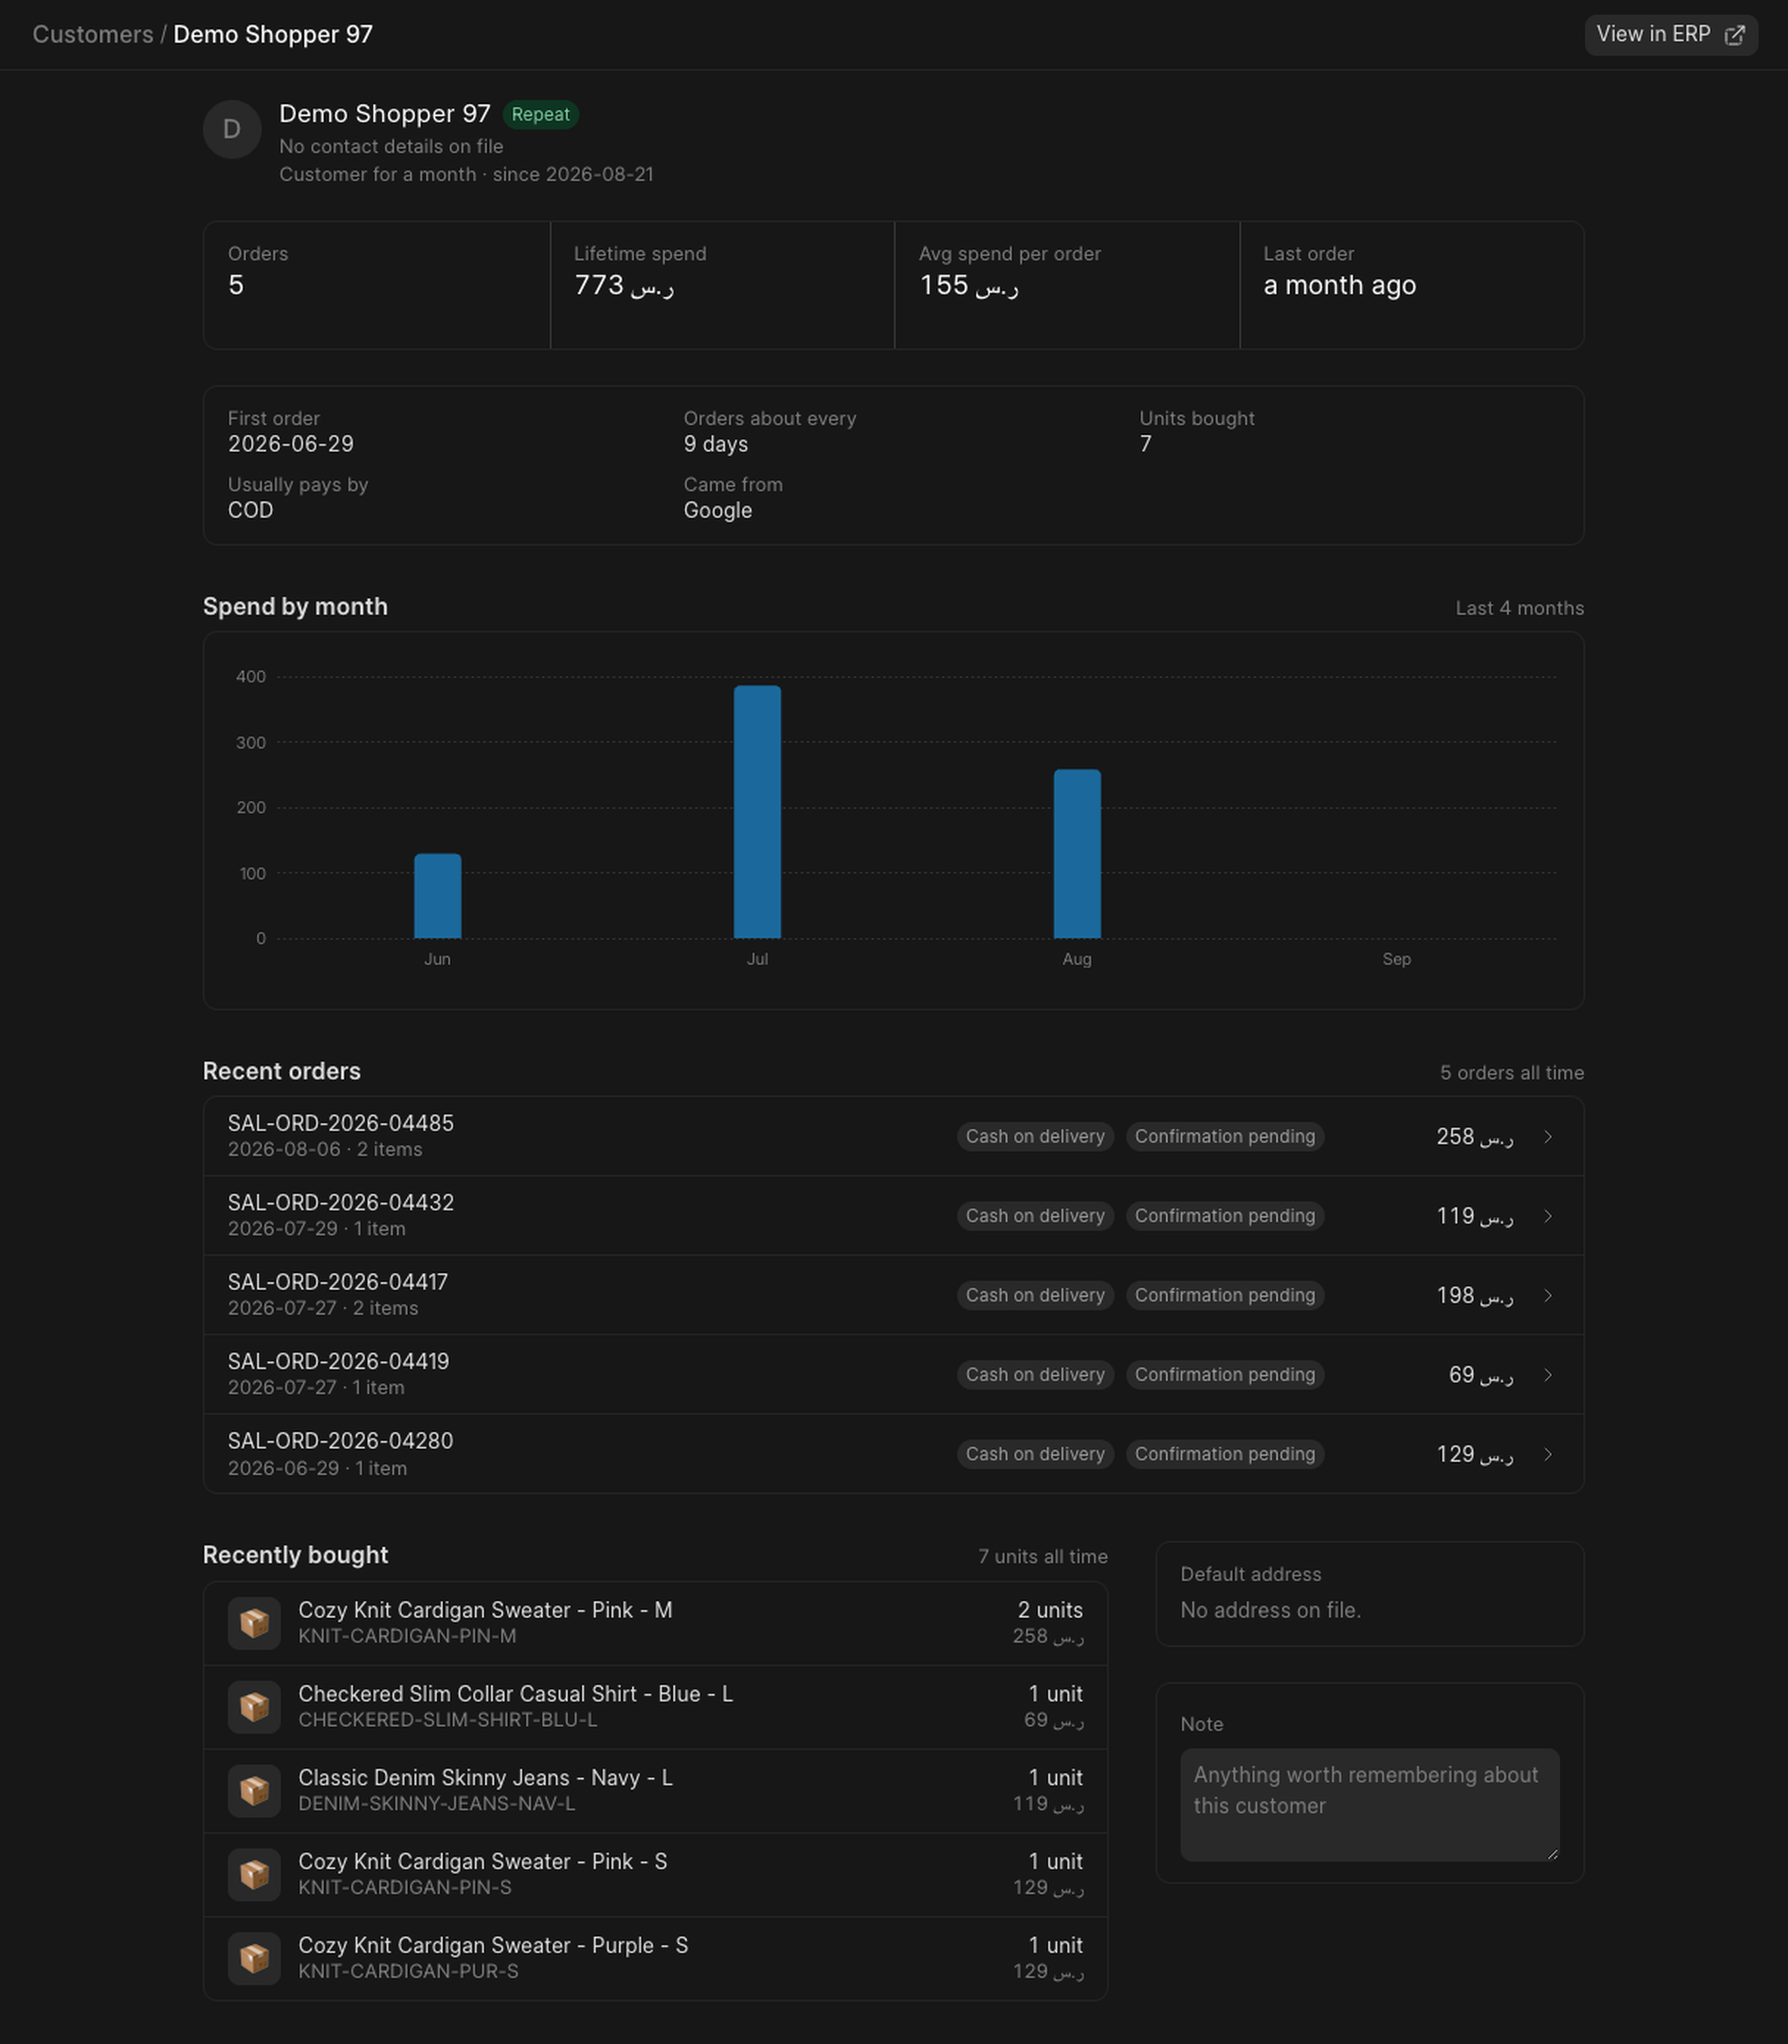
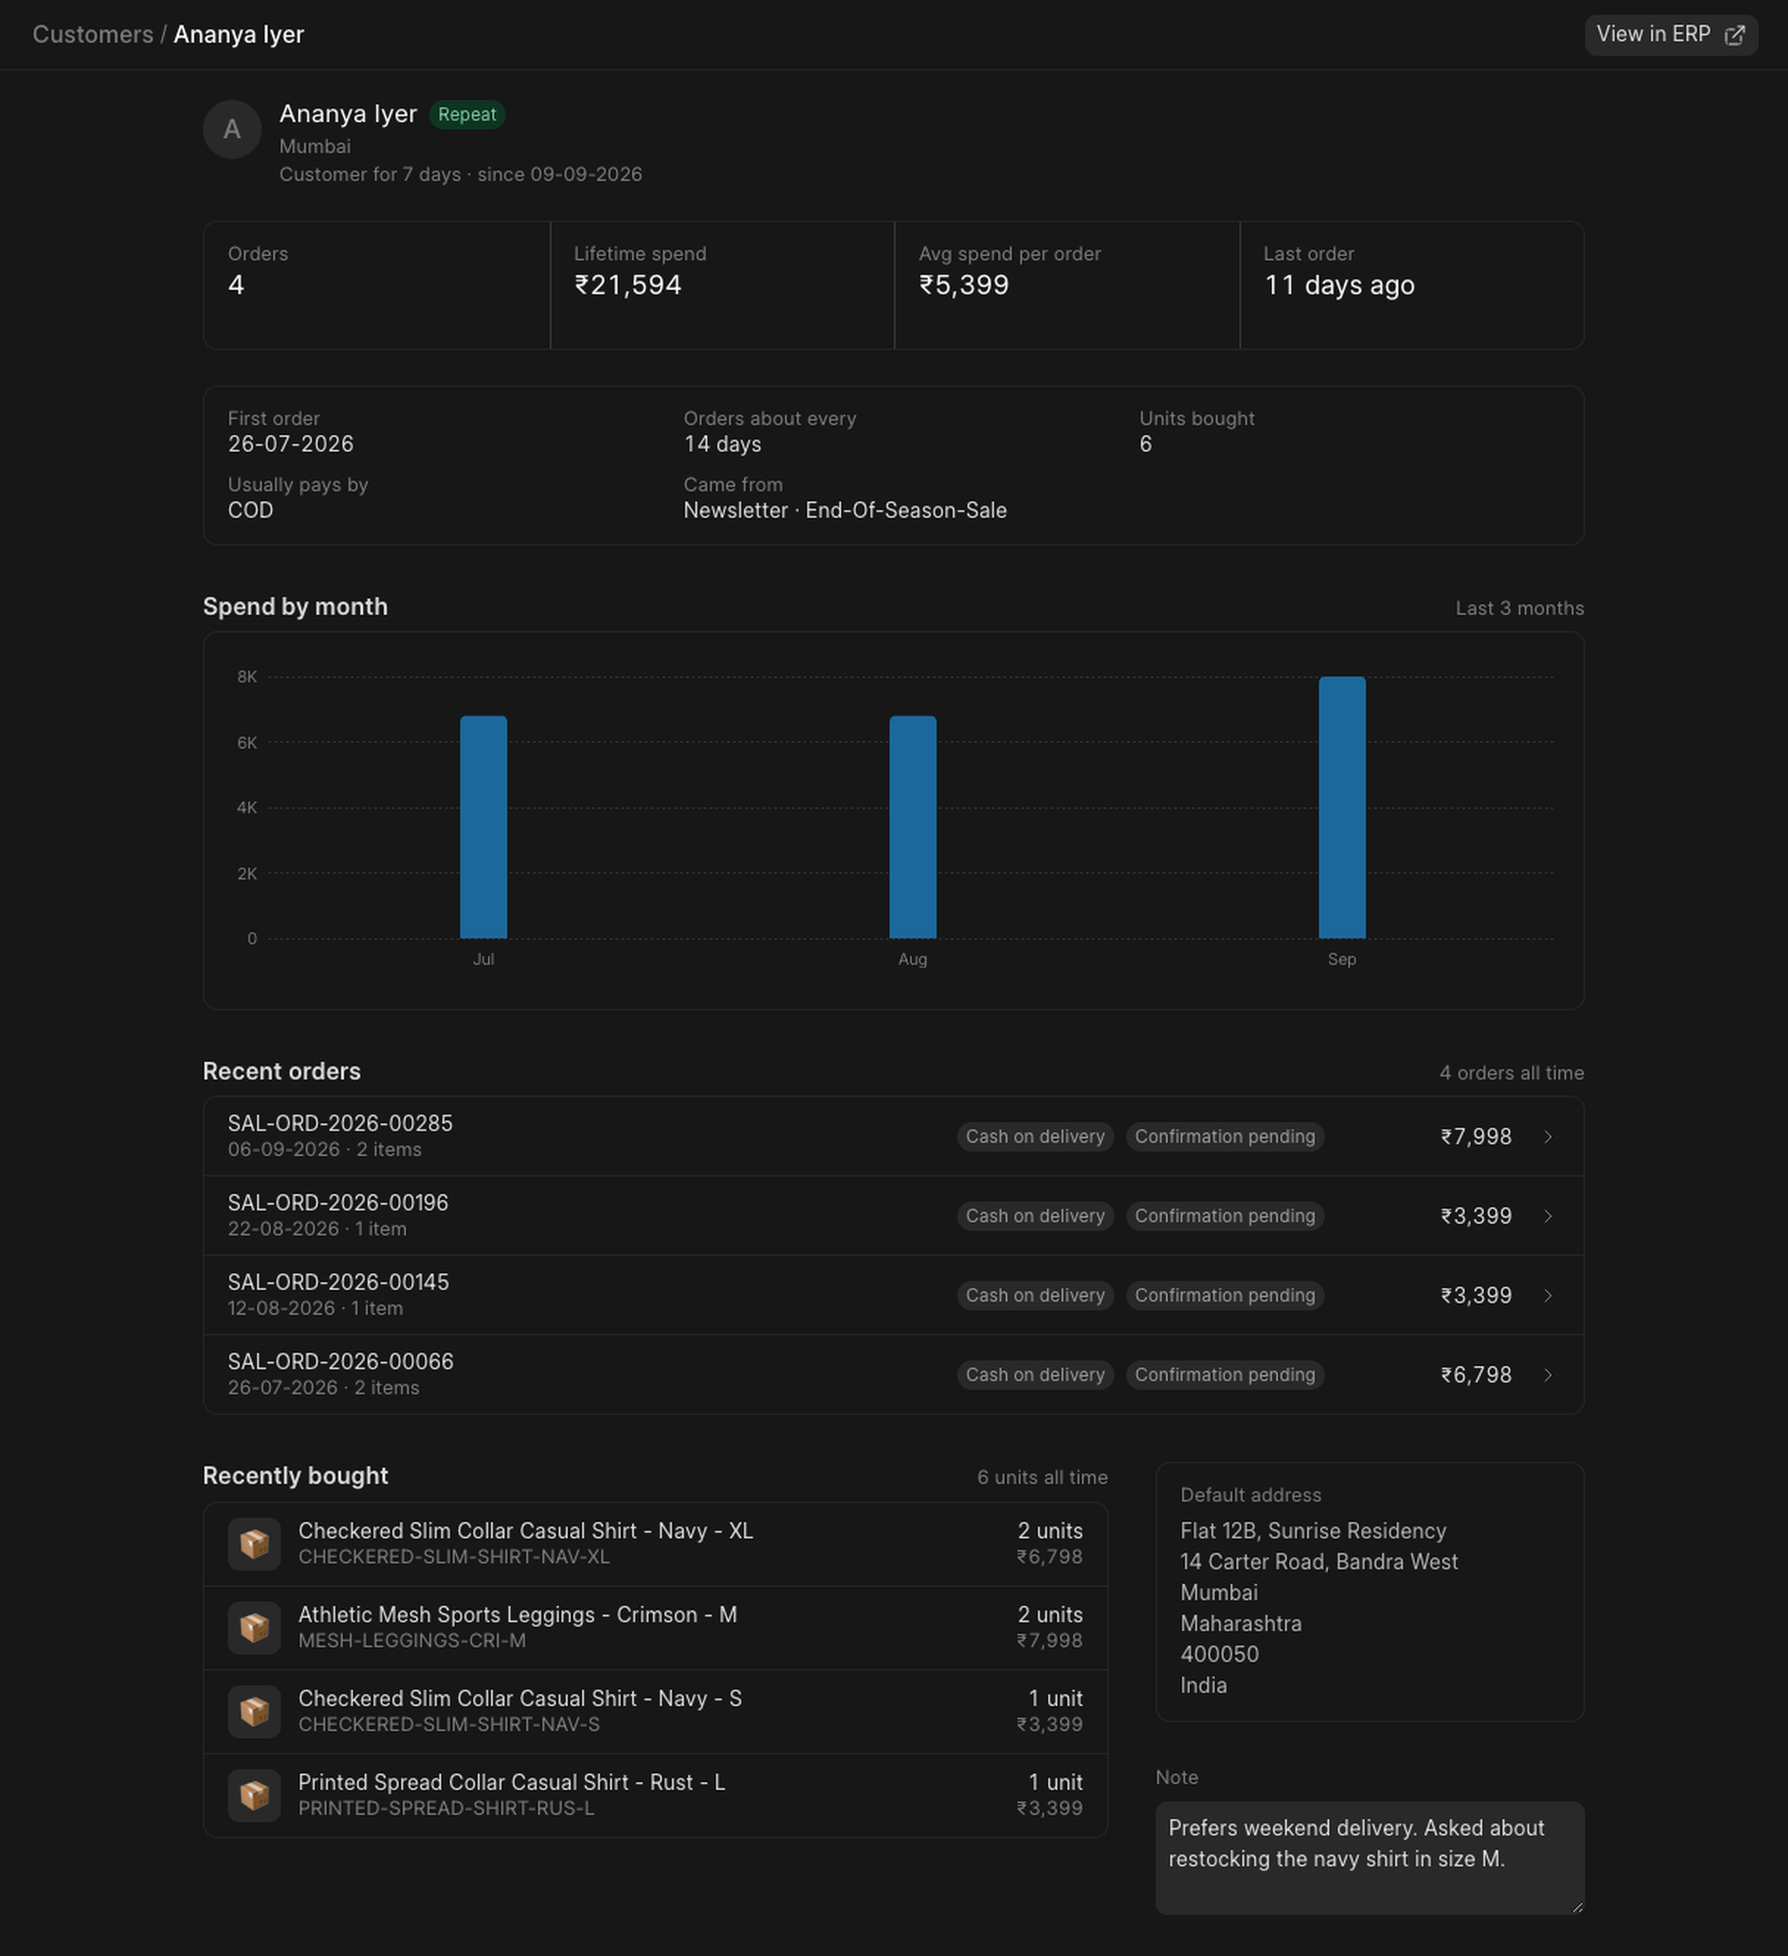
fix(dashboard): unbox the customer note and strip the comments

diff --git a/dashboard/src/pages/CustomerDetail.vue b/dashboard/src/pages/CustomerDetail.vue
@@ -14,8 +14,6 @@ import { erpnextLink } from '../data/erpnext'
 import { errorMessage } from '../data/errors'
 import { longDate, money } from '../data/format'
 
-// A shop owner stops chasing after a quarter of silence, so that is where a
-// repeat customer starts reading as lapsed.
 const LAPSED_AFTER_DAYS = 90
 
 const route = useRoute()
@@ -71,9 +69,6 @@ const stats = computed(() => [
   },
 ])
 
-// Facts that earn a line but not a tile. A fact with nothing behind it is
-// dropped rather than printed as an em dash, so the strip stays honest about
-// what this store actually knows — most stores carry no UTM data at all.
 const atAGlance = computed(() => {
   const record = customer.value
   const facts = []
@@ -88,8 +83,6 @@ const atAGlance = computed(() => {
     facts.push({
       label: 'Came from',
       value: [record.acquisition.source, record.acquisition.campaign].filter(Boolean).join(' · '),
-      // utm_source arrives however the campaign was tagged, almost always
-      // lowercase ("google"), which reads as unfinished next to the other facts.
       capitalize: true,
     })
   }
@@ -98,19 +91,12 @@ const atAGlance = computed(() => {
 
 const customerFor = computed(() => dayjs(customer.value.since).fromNow(true))
 
-// The server always sends a full year so the axis is continuous, but a customer
-// who first bought four months ago would spend two thirds of the plot proving
-// they did not exist yet. Drop the empty run before their first month; the gaps
-// between their own orders stay, because those are the ones worth seeing.
 const spendByMonth = computed(() => {
   const months = customer.value?.spend_by_month ?? []
   const firstMonthWithSpend = months.findIndex((month) => month.spend)
   return firstMonthWithSpend > 0 ? months.slice(firstMonthWithSpend) : months
 })
 
-// Customer.email_id and mobile_no come back as empty strings, not null, when a
-// shopper checked out without them — joining the truthy parts keeps a missing
-// one from leaving a stray separator behind.
 const contactLine = computed(() =>
   [customer.value.email, customer.value.phone, customer.value.city].filter(Boolean).join(' · '),
 )
@@ -123,7 +109,6 @@ const noteChanged = computed(() => note.value !== (customer.value?.note ?? ''))
 
 async function saveNote() {
   await noteAction.submit({ customer: route.params.id, note: note.value })
-  // A refusal already toasted inside useAdminAction.
   if (noteAction.error) return
   toast.success('Note saved')
   customerRequest.reload()
@@ -149,8 +134,6 @@ function plural(count, word) {
     <PageBody width="wide">
       <div class="flex items-start gap-3">
         <Avatar :label="customer.name" size="2xl" />
-        <!-- min-w-0 so a long name or contact line truncates rather than
-             overflowing the row. -->
         <div class="min-w-0">
           <div class="flex items-center gap-2">
             <p class="text-xl text-ink-gray-9">{{ customer.name }}</p>
@@ -188,8 +171,6 @@ function plural(count, word) {
             {{ spendByMonth.length === 1 ? 'This month' : `Last ${spendByMonth.length} months` }}
           </span>
         </div>
-        <!-- frappe-ui's charts fill their parent, so the height has to come
-             from the wrapper — the analytics reports do the same. -->
         <div class="mt-2 rounded-5 border border-outline-gray-1 p-4">
           <div class="h-56">
             <BarChart :data="spendByMonth" x="label" :y="['spend']" />
@@ -197,17 +178,11 @@ function plural(count, word) {
         </div>
       </section>
 
-      <!-- Full page width rather than a column of the block below: the address
-           and product panels run out well before the order history does, and a
-           half-width row wastes the space the badges and totals want. -->
       <section class="mt-8">
         <div class="flex items-baseline justify-between">
           <h2 class="text-lg-semibold text-ink-gray-8">Recent orders</h2>
           <span class="text-sm text-ink-gray-5">{{ plural(customer.orders, 'order') }} all time</span>
         </div>
-        <!-- Not frappe-ui's List here: its cell borders stop short of the row
-             edge, which reads as a broken rule next to the bordered panels
-             around it. A five-row summary needs no virtualised list either. -->
         <ul
           v-if="theirOrders.length"
           class="mt-2 divide-y divide-outline-gray-1 rounded-5 border border-outline-gray-1"
@@ -217,30 +192,19 @@ function plural(count, word) {
               :to="`/orders/${order.name}`"
               class="flex items-center gap-4 px-4 py-2.5 hover:bg-surface-gray-2"
             >
-              <!-- min-w-0 so a long order name truncates instead of pushing the
-                   badges and total off the card. -->
               <div class="min-w-0 flex-1">
                 <p class="truncate text-base text-ink-gray-8">{{ order.name }}</p>
                 <p class="mt-0.5 text-sm text-ink-gray-5">
                   {{ longDate(order.placed_on) }} · {{ plural(order.item_count, 'item') }}
                 </p>
               </div>
-              <!-- Badges sized by their own content: a fixed status column is
-                   overrun by longer labels ("Cash on delivery" + "Confirmation
-                   pending"), which then covers the money. The name column
-                   absorbs the slack instead. -->
               <div class="flex shrink-0 items-center gap-2">
                 <StatusBadge :status="order.payment_state.key" :label="order.payment_state.label" />
                 <StatusBadge :status="order.state.key" :label="order.state.label" />
               </div>
-              <!-- Last and fixed width so the totals line up down the column.
-                   Wide enough for a three-character currency symbol (SAR's
-                   ر.س), which a narrower column clipped. -->
               <p class="w-28 shrink-0 text-right text-base text-ink-gray-8 tabular-nums">
                 {{ money(order.total) }}
               </p>
-              <!-- The row opens the order; without this the list reads as a
-                   read-only summary at rest, as the old List rows did not. -->
               <span class="lucide-chevron-right size-4 shrink-0 text-ink-gray-4" aria-hidden="true" />
             </router-link>
           </li>
@@ -248,9 +212,6 @@ function plural(count, word) {
         <EmptyState v-else icon="lucide-shopping-bag" title="No orders yet" compact />
       </section>
 
-      <!-- items-start so the address card hugs its two lines instead of being
-           stretched to the height of the product list beside it, which reads as
-           a panel that failed to load. -->
       <div class="mt-8 grid items-start gap-8 lg:grid-cols-3">
         <section v-if="topProducts.length" class="lg:col-span-2">
           <div class="flex items-baseline justify-between">
@@ -285,7 +246,7 @@ function plural(count, word) {
             <p v-else class="mt-1.5 text-p-base text-ink-gray-4">No address on file.</p>
           </section>
 
-          <section class="rounded-5 border border-outline-gray-1 px-4 py-3.5">
+          <section>
             <label class="text-sm text-ink-gray-5" for="customer-note">Note</label>
             <FormControl
               id="customer-note"
@@ -295,8 +256,6 @@ function plural(count, word) {
               v-model="note"
               placeholder="Anything worth remembering about this customer"
             />
-            <!-- Only once there is something to save: a button parked in a
-                 permanently disabled state reads as a control that never works. -->
             <Button
               v-if="noteChanged"
               class="mt-2"

diff --git a/commera/tests/test_admin_customers.py b/commera/tests/test_admin_customers.py
@@ -1,6 +1,4 @@
 # Copyright (c) 2026, company@bwhstudios.com and Contributors
-# Tests for the customer profile screen (api/admin/customers.py). The lifetime figures here are what a
-# shop owner quotes back at a customer, so they are exercised against real orders rather than stubs.
 
 import frappe
 from frappe.tests import IntegrationTestCase
@@ -150,7 +148,6 @@ class TestCustomerProfile(IntegrationTestCase):
 
 	def test_top_products_are_ranked_by_units_and_capped(self):
 		item_codes = [make_item(image="/files/zz-profile.png") for _ in range(TOP_PRODUCT_LIMIT + 1)]
-		# Descending quantities, so the least-bought item is the one that must fall off the list.
 		for index, item_code in enumerate(item_codes):
 			make_webshop_order(self.customer, item_code, qty=len(item_codes) - index)
 
@@ -188,7 +185,6 @@ class TestCustomerProfile(IntegrationTestCase):
 		]
 		self.assertEqual([row["label"] for row in spend_by_month], expected_labels)
 		self.assertAlmostEqual(spend_by_month[-1]["spend"], ITEM_RATE)
-		# An empty month has to carry a zero, or the chart's axis breaks where the customer went quiet.
 		self.assertEqual([row["spend"] for row in spend_by_month[:-1]], [0.0] * (SPEND_CHART_MONTHS - 1))
 
 	def test_an_order_older_than_the_chart_window_still_counts_towards_spend(self):

diff --git a/commera/api/admin/customers.py b/commera/api/admin/customers.py
@@ -23,10 +23,8 @@ from commera.api.admin.orders import (
 
 PAGE_LENGTH = 20
 
-# How many of a customer's most-bought items the profile screen lists.
 TOP_PRODUCT_LIMIT = 5
 
-# The spend chart's window. Fixed, because the chart has no month picker.
 SPEND_CHART_MONTHS = 12
 
 ADDRESS_LINE_FIELDS = (
@@ -181,8 +179,6 @@ def get_customer(customer: str):
 	if not doc:
 		frappe.throw(_("Customer {0} not found").format(customer))
 
-	# Lifetime figures come off every order the customer has ever placed, never off the capped recent
-	# list — past CUSTOMER_ORDER_LIMIT the profile would otherwise contradict the Customers list.
 	lifetime_orders = read_customer_lifetime_orders(customer)
 	order_count = len(lifetime_orders)
 	spend = sum(flt(row.base_grand_total) for row in lifetime_orders)
